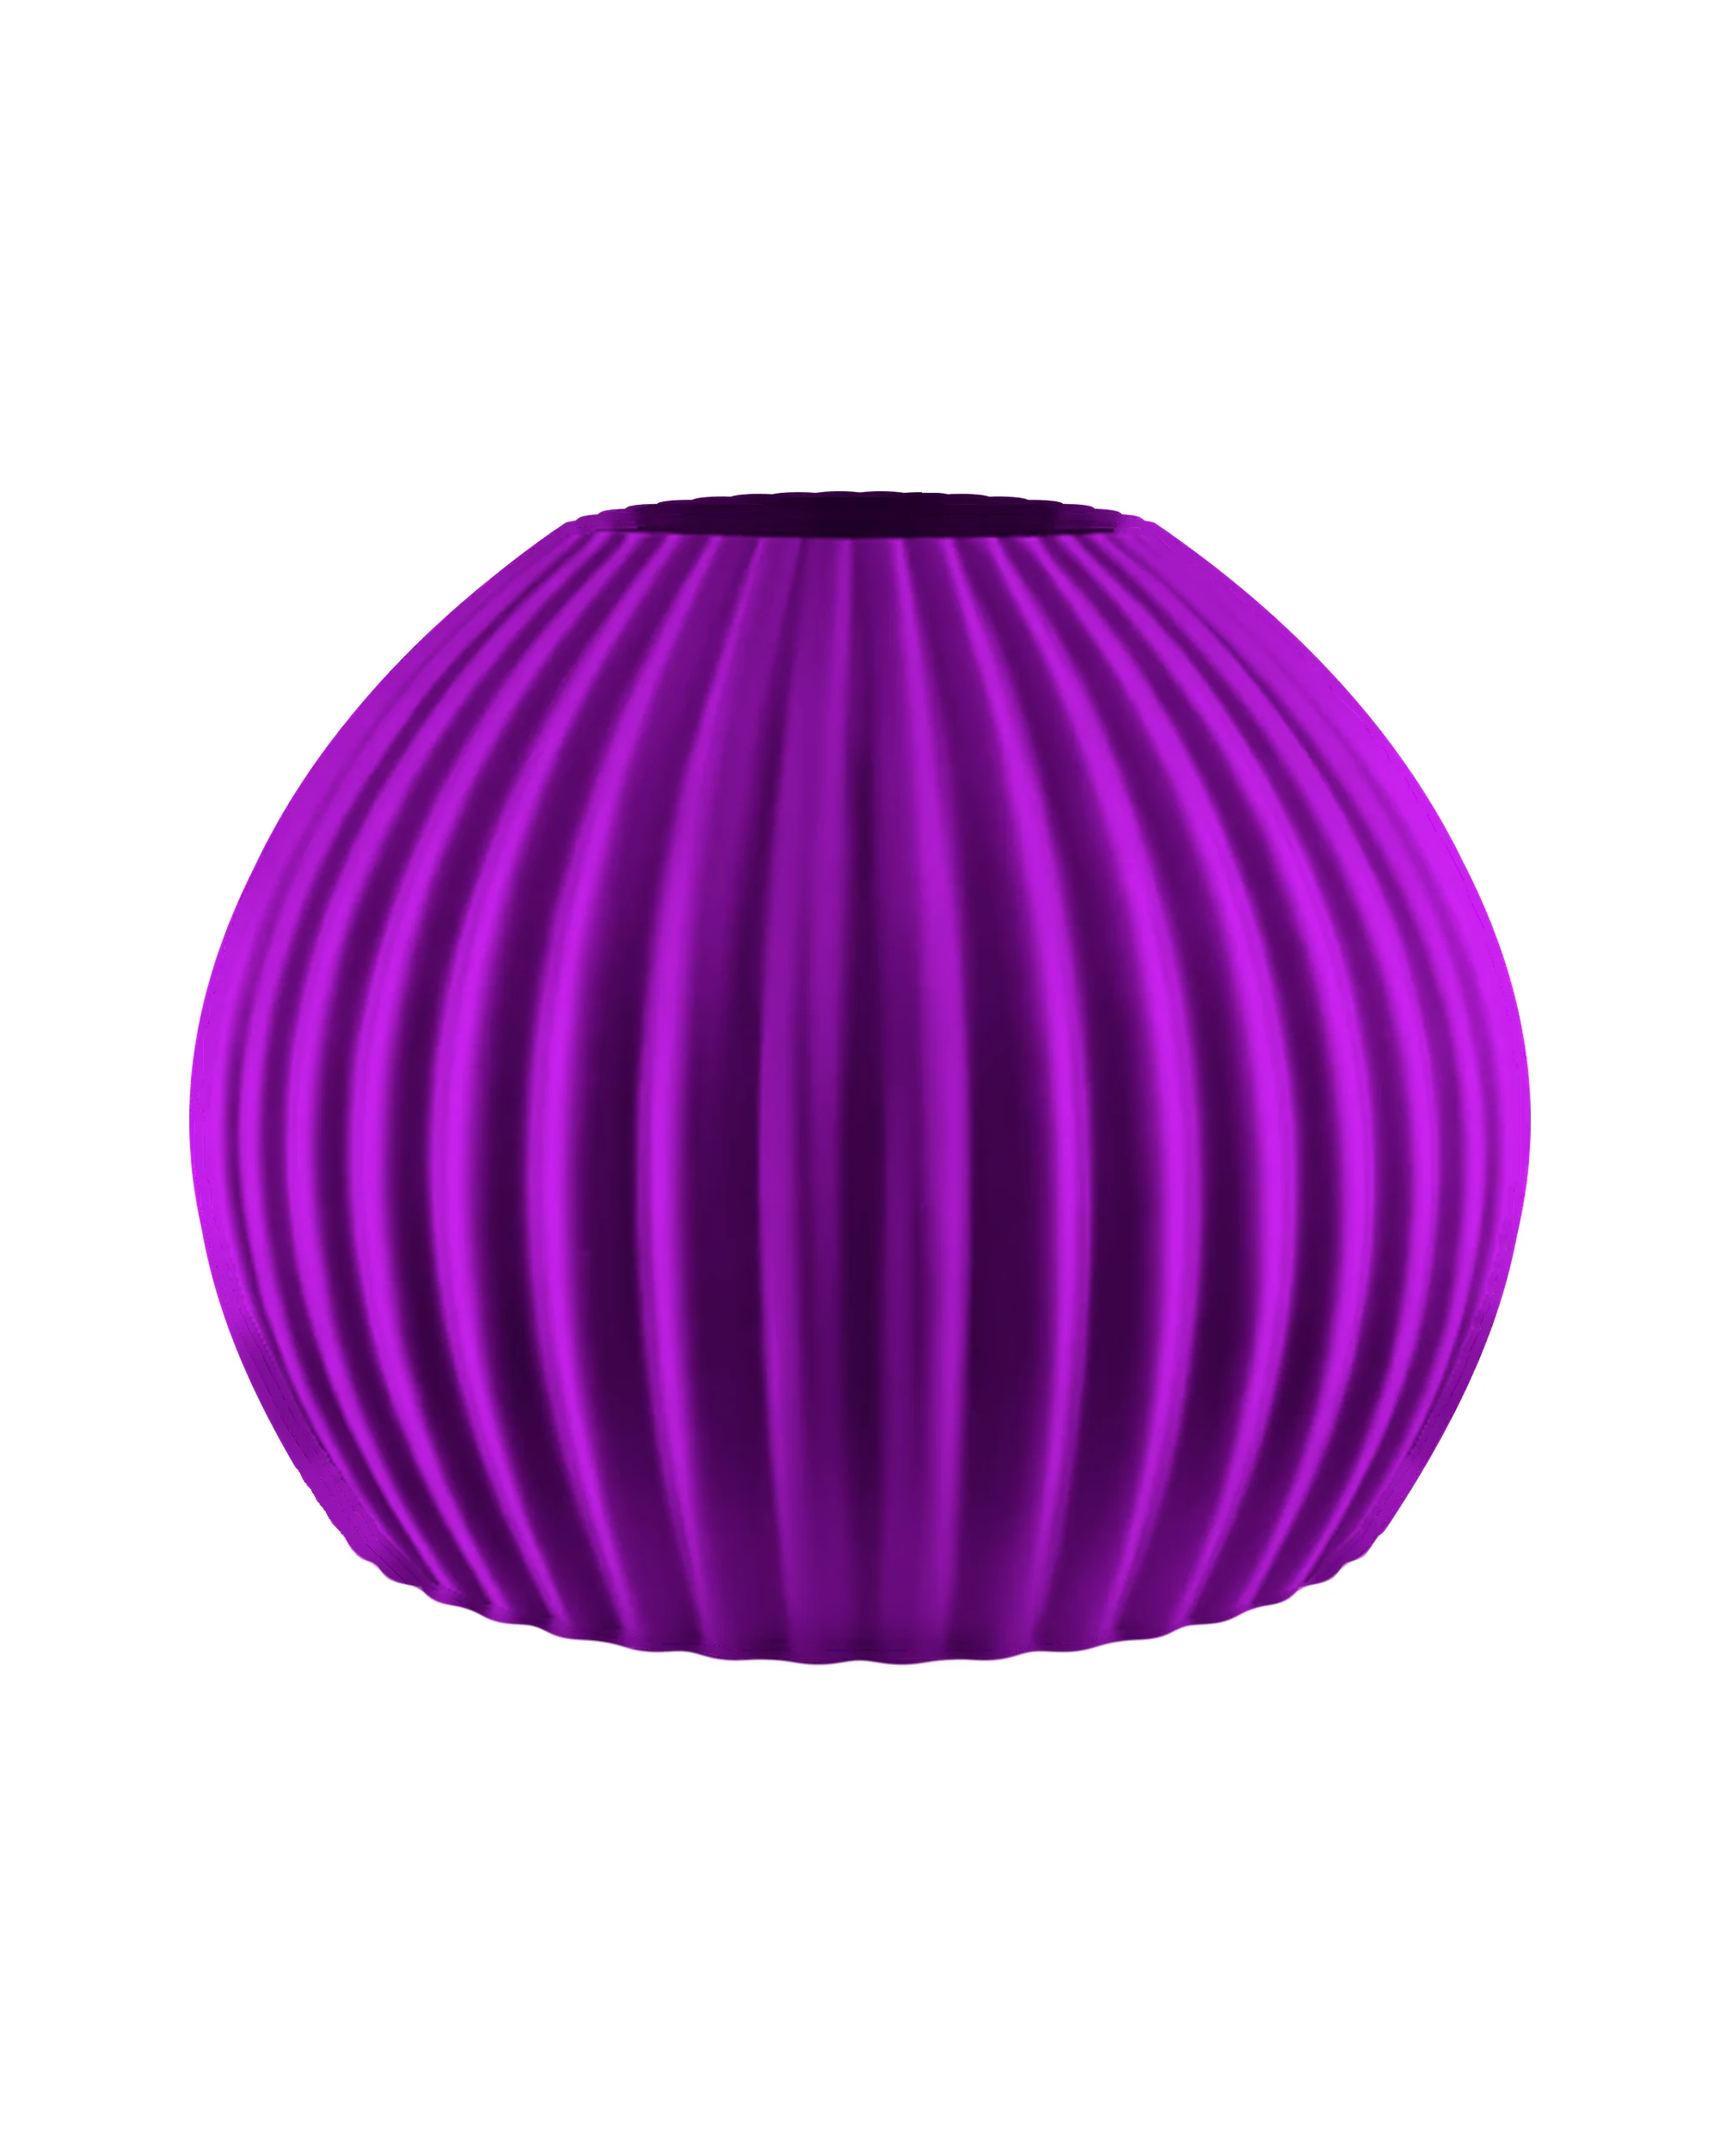
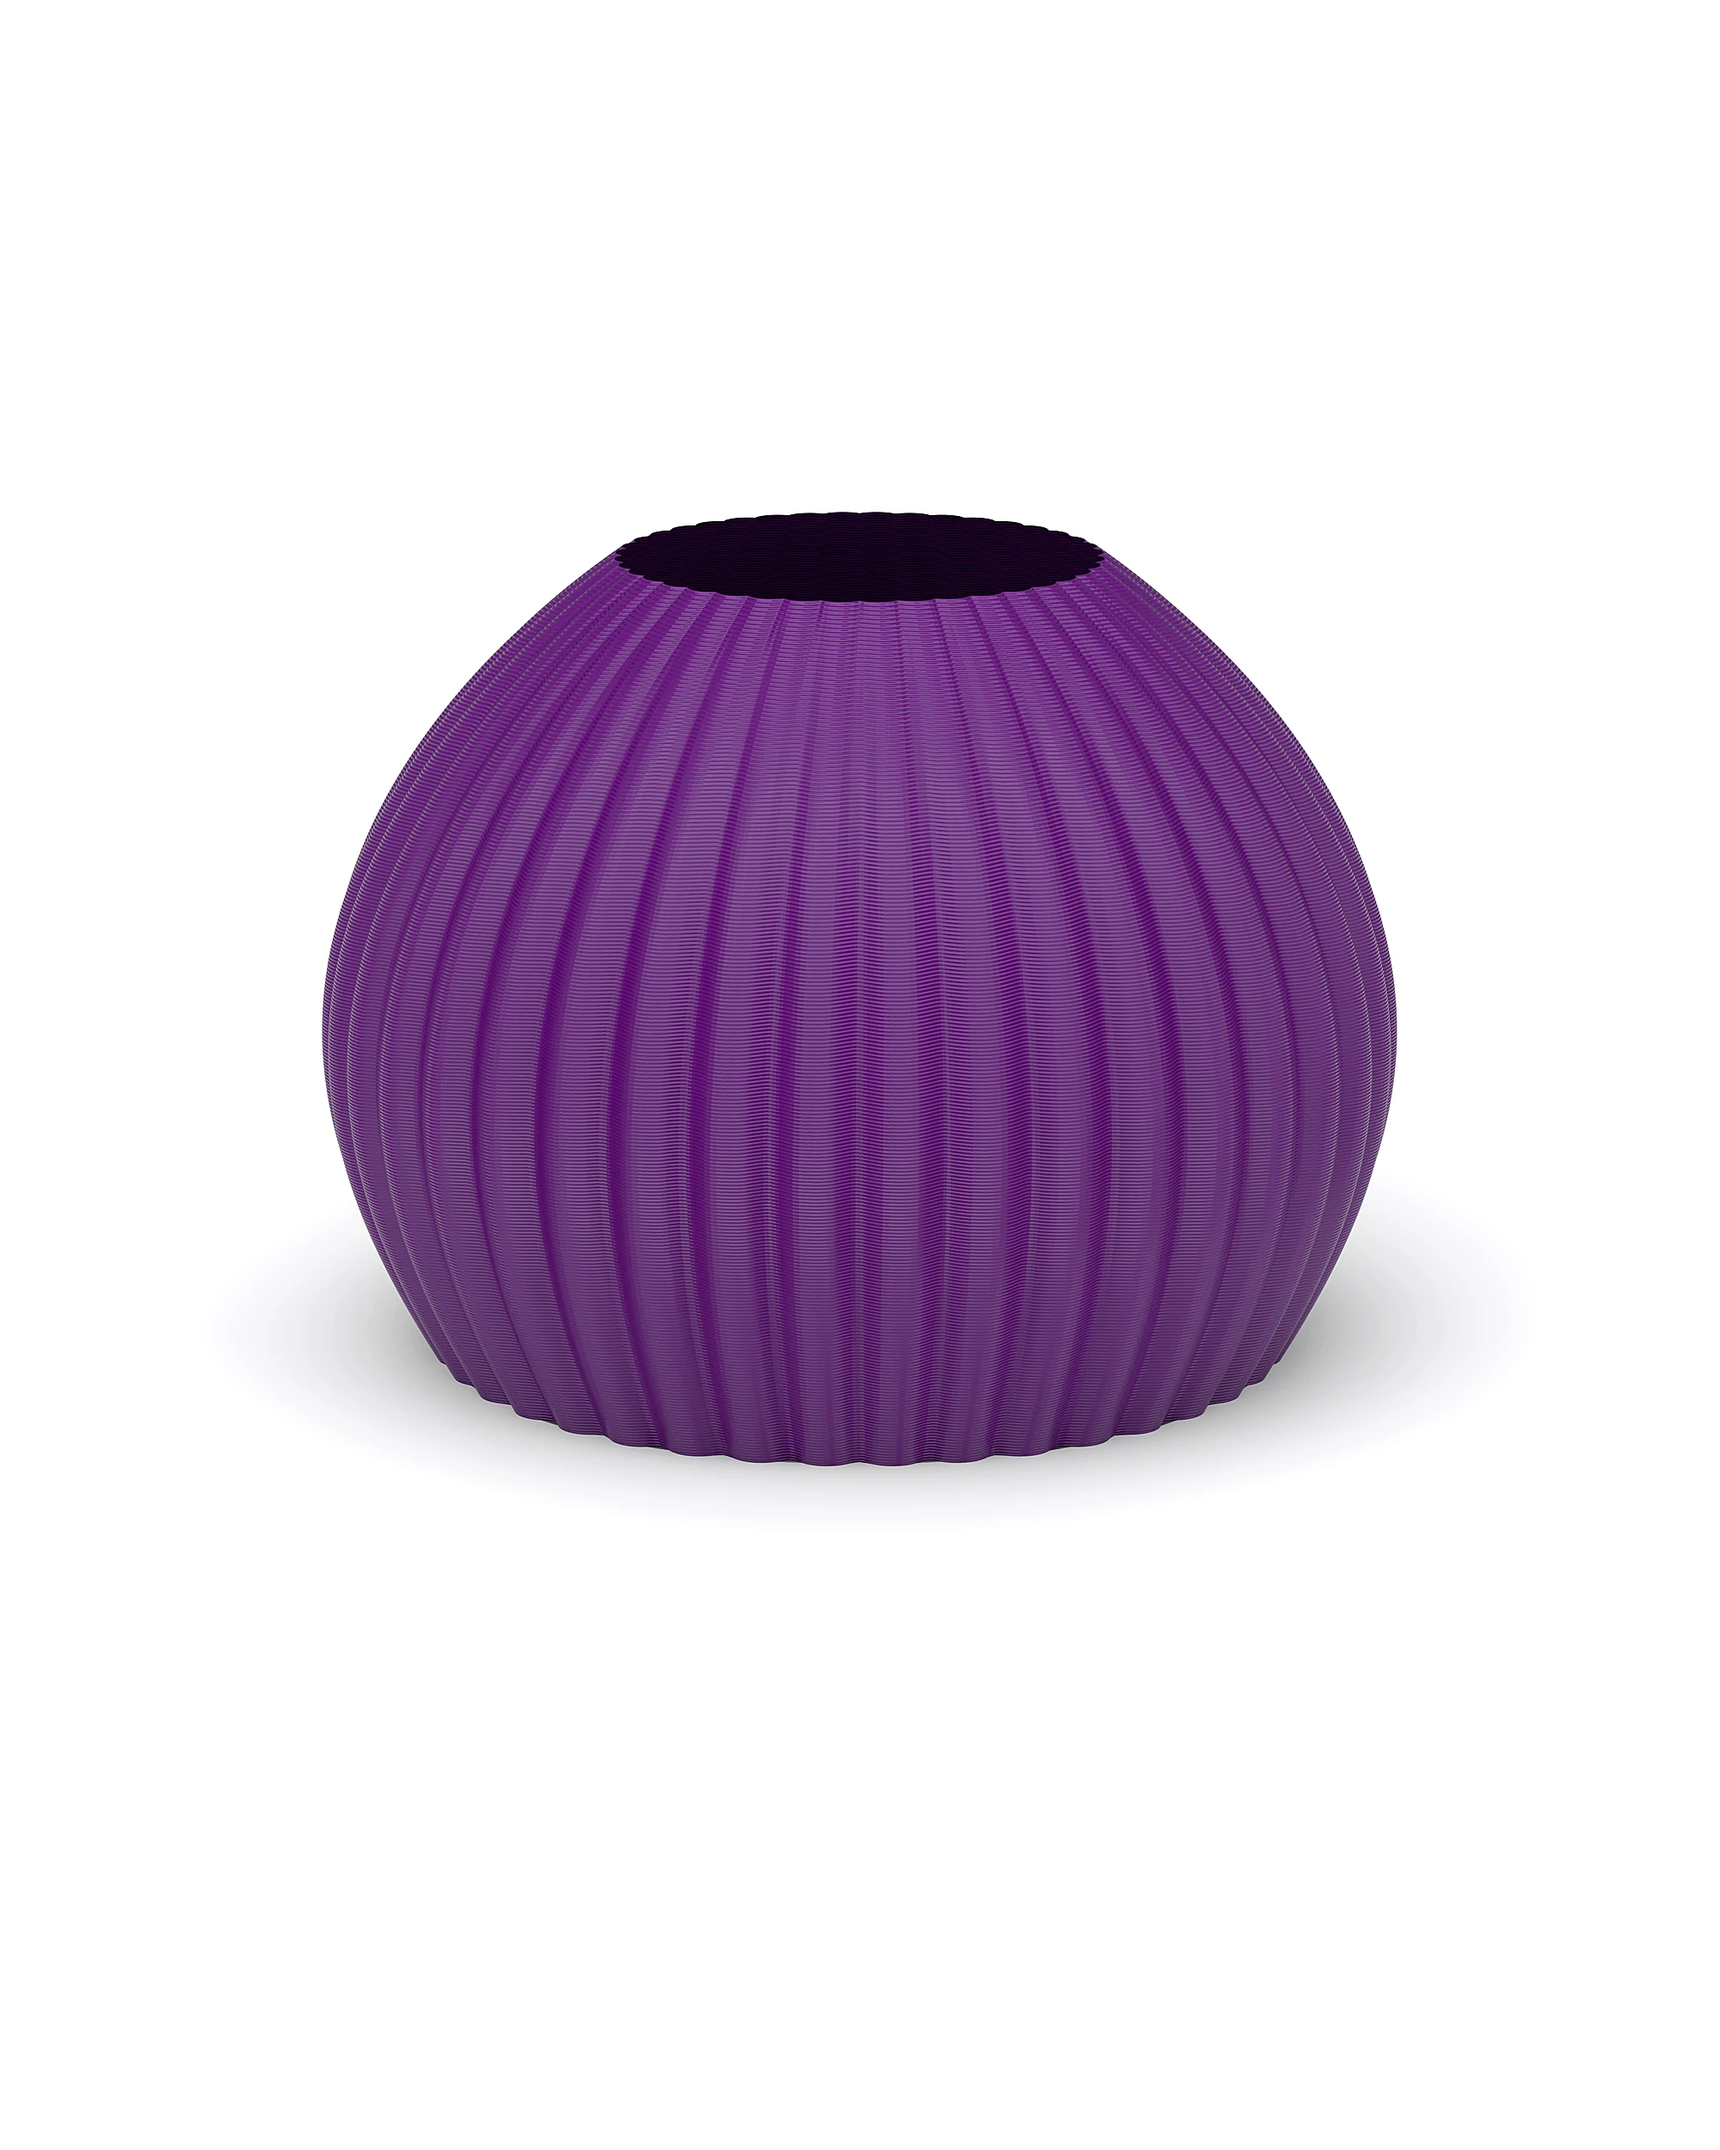
Bombato: nuove foto dei 13 colori (render Blender alta qualita', layer visibili, ombra di appoggio senza riflesso, stessa inquadratura)
Claude-Session: https://claude.ai/code/session_01MGUzQ1NywuydeXA4jQqXxT

diff --git a/prodotto-bombato.html b/prodotto-bombato.html
@@ -672,6 +672,7 @@
      ========================================================================= */
   var FOTO = [
     { src:'images/christmas/bombato-natale.webp', alt:'Bombato Golden con fiori secchi, regalo e decorazioni natalizie' },
+    { src:'images/Bombato/web/bombato-salotto.webp', alt:'Bombato in un salotto luminoso, con eucalipto e ortensia' },
     { src:'images/Bombato/IMG_1339.jpg', alt:'Bombato Viola, dettaglio ravvicinato' },
     { src:'images/Bombato/Isola il vaso verde .png', alt:'Bombato Emerald Green con pianta, su un tavolino' },
     { src:'images/Bombato/Shapeless 1-68.jpg', alt:'Bombato Giallo tra le mani, con rametti secchi' },
@@ -704,19 +705,19 @@
     /* Il render del vaso in ogni colore (sito, luce uguale per tutti). Compare nel
        riquadro solo quando si tocca il pallino: NON e' fra le miniature. */
     var COLORI = {
-      "#a3444d":"images/Bombato/colori/bombato-red-wine.webp?v=c7",
-      "#91535d":"images/Bombato/colori/bombato-bordeaux.webp?v=c7",
-      "#bcbfb0":"images/Bombato/colori/bombato-sage.webp?v=c7",
-      "#646666":"images/Bombato/colori/bombato-antracite.webp?v=c7",
-      "#d8d0cd":"images/Bombato/colori/bombato-off-white.webp?v=c7",
-      "#e7cac0":"images/Bombato/colori/bombato-rose.webp?v=c7",
-      "#346371":"images/Bombato/colori/bombato-emerald-green.webp?v=c7",
-      "#0095a1":"images/Bombato/colori/bombato-blu-lagoon.webp?v=c7",
-      "#6b1492":"images/Bombato/colori/bombato-viola.webp?v=c7",
-      "#dd1d76":"images/Bombato/colori/bombato-magenta.webp?v=c7",
-      "#fed003":"images/Bombato/colori/bombato-giallo.webp?v=c7",
-      "#00924f":"images/Bombato/colori/bombato-verde.webp?v=c7",
-      "#e0bf42":"images/Bombato/colori/bombato-golden.webp?v=c7"
+      "#a3444d":"images/Bombato/colori/bombato-red-wine.webp?v=c8",
+      "#91535d":"images/Bombato/colori/bombato-bordeaux.webp?v=c8",
+      "#bcbfb0":"images/Bombato/colori/bombato-sage.webp?v=c8",
+      "#646666":"images/Bombato/colori/bombato-antracite.webp?v=c8",
+      "#d8d0cd":"images/Bombato/colori/bombato-off-white.webp?v=c8",
+      "#e7cac0":"images/Bombato/colori/bombato-rose.webp?v=c8",
+      "#346371":"images/Bombato/colori/bombato-emerald-green.webp?v=c8",
+      "#0095a1":"images/Bombato/colori/bombato-blu-lagoon.webp?v=c8",
+      "#6b1492":"images/Bombato/colori/bombato-viola.webp?v=c8",
+      "#dd1d76":"images/Bombato/colori/bombato-magenta.webp?v=c8",
+      "#fed003":"images/Bombato/colori/bombato-giallo.webp?v=c8",
+      "#00924f":"images/Bombato/colori/bombato-verde.webp?v=c8",
+      "#e0bf42":"images/Bombato/colori/bombato-golden.webp?v=c8"
     };
 
     var stato = { vista:'foto', da:'foto', foto:0, color:'#a3444d', nomeColore:'Red Wine', modelloAvviato:false };
